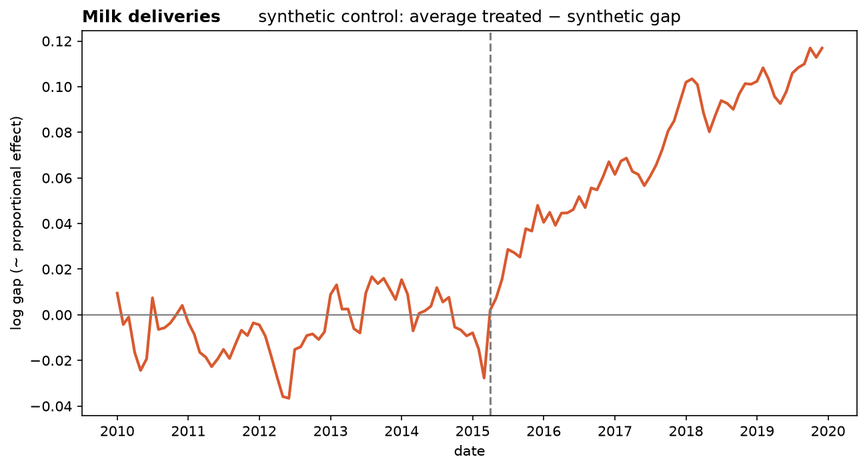
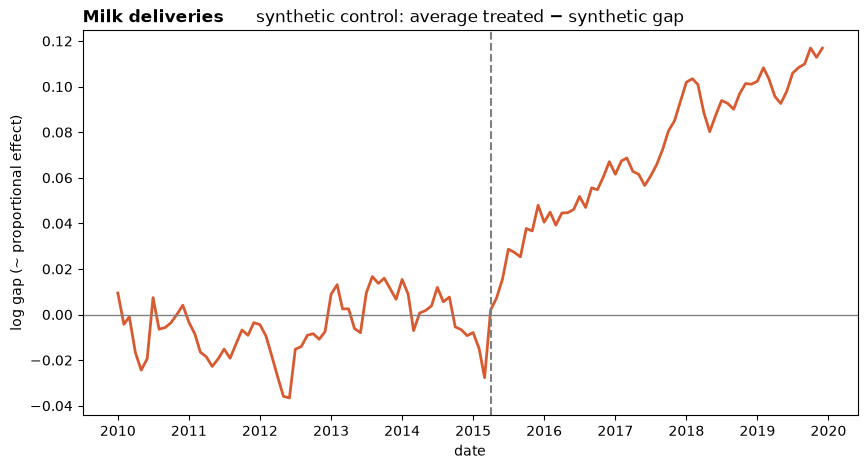
Compute the synthetic-control threshold sensitivity and regenerate the README figures
01_volume claimed that the volume estimate was "materially unchanged" across
pre-RMSPE cuts of 0.05 / 0.10 / 0.15 ("8, 10 and 11 units"), but no cell
computed it and the unit counts were wrong.

- 01_volume.ipynb: new cell after the 11-unit estimate that recomputes the
  average gap for cuts 0.05, 0.10, 0.12, 0.15 and 0.35, plus Ireland's own
  pre-RMSPE and post-2015 gap. Result: 0.05 and 0.10 keep 10 units (Estonia
  also drops) and give +0.080 (2015-19) and +0.116 (2019); 0.12 and 0.15 keep
  11 and give +0.071 and +0.106. Readmitting Ireland (0.35) gives +0.008,
  because its clone, unfit before 2015, has a post gap of -0.659.
- A new markdown cell reads that table. The earlier text now points to it,
  says the code uses 0.12 (it said 0.15), and the triangulation section no
  longer says that excluding Ireland pushes the synthetic estimate down.
- Re-executed 01_volume (Eurostat data as of 21 Oct 2026): every other output
  is identical to the previous run.
- assets/synth_gap_volume.png: regenerated by the notebook at dpi=100.
- assets/income_decomposition.png: now written by 03_income itself, so the
  README chart is the notebook output. Values are unchanged.
- README: the limitations paragraph states the threshold sensitivity.

Claude-Session: https://claude.ai/code/session_019nRT75UtVwLY1VhRQrrwaE

diff --git a/README.md b/README.md
@@ -157,7 +157,7 @@ Data sources: [Eurostat](https://ec.europa.eu/eurostat) (`apro_mk_colm`) and the
 
 ## Limitations
 
-This is a portfolio research project, and its conclusions are bounded accordingly. Every effect is measured **relative to the control group**, not in absolute terms: because treated and control share the same EU-level price market, an EU-wide price change is invisible to this design, so the absolute income gain could be smaller than the relative one. The price control pool is thin (the UK is absent from the price data; Croatia, Malta and partial-coverage donors are dropped on their own evidence), which widens per-country noise and coarsens placebo resolution. The post-period spans the 2015–16 dairy crash and the 2014 Russian import ban, large EU-wide price shocks, absorbed only insofar as they hit both groups alike. Cyprus and Ireland fall out of the income step on fit and coverage grounds, and Luxembourg's price series ends in 2018. The synthetic-control fit thresholds (pre-RMSPE below 0.12 for volume, 0.10 for price) are set at the natural break in each outcome's fit distribution, so they are a judgement call. Inference rests on 27 country clusters (12 treated) for the event study and on a small placebo pool for the synthetic control, which bounds the smallest attainable p-value. All of these are documented in-line in the notebooks.
+This is a portfolio research project, and its conclusions are bounded accordingly. Every effect is measured **relative to the control group**, not in absolute terms: because treated and control share the same EU-level price market, an EU-wide price change is invisible to this design, so the absolute income gain could be smaller than the relative one. The price control pool is thin (the UK is absent from the price data; Croatia, Malta and partial-coverage donors are dropped on their own evidence), which widens per-country noise and coarsens placebo resolution. The post-period spans the 2015–16 dairy crash and the 2014 Russian import ban, large EU-wide price shocks, absorbed only insofar as they hit both groups alike. Cyprus and Ireland fall out of the income step on fit and coverage grounds, and Luxembourg's price series ends in 2018. The synthetic-control fit thresholds (pre-RMSPE below 0.12 for volume, 0.10 for price) are set at the natural break in each outcome's fit distribution, so they are a judgement call. For volume, every cut that keeps Ireland out moves the estimate by about 0.01 (the table is in `01_volume`); readmitting Ireland, whose synthetic clone already fails before 2015, pulls the average to about zero, which is why the cut is made on pre-period fit alone. Inference rests on 27 country clusters (12 treated) for the event study and on a small placebo pool for the synthetic control, which bounds the smallest attainable p-value. All of these are documented in-line in the notebooks.
 
 ---
 
